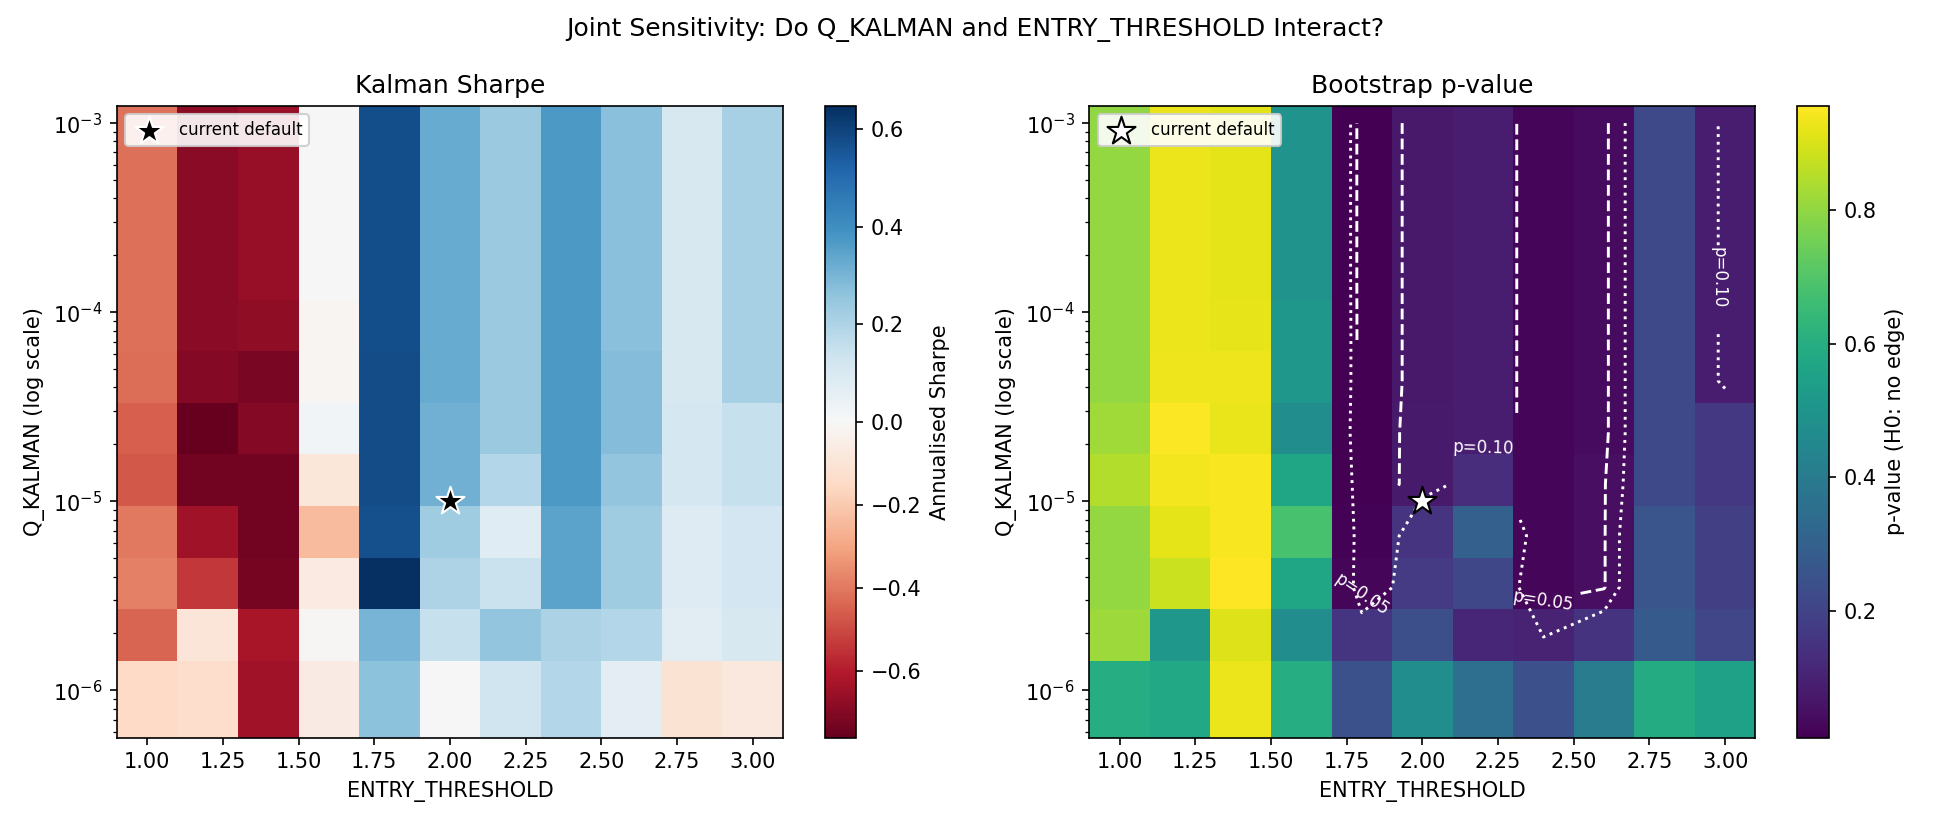
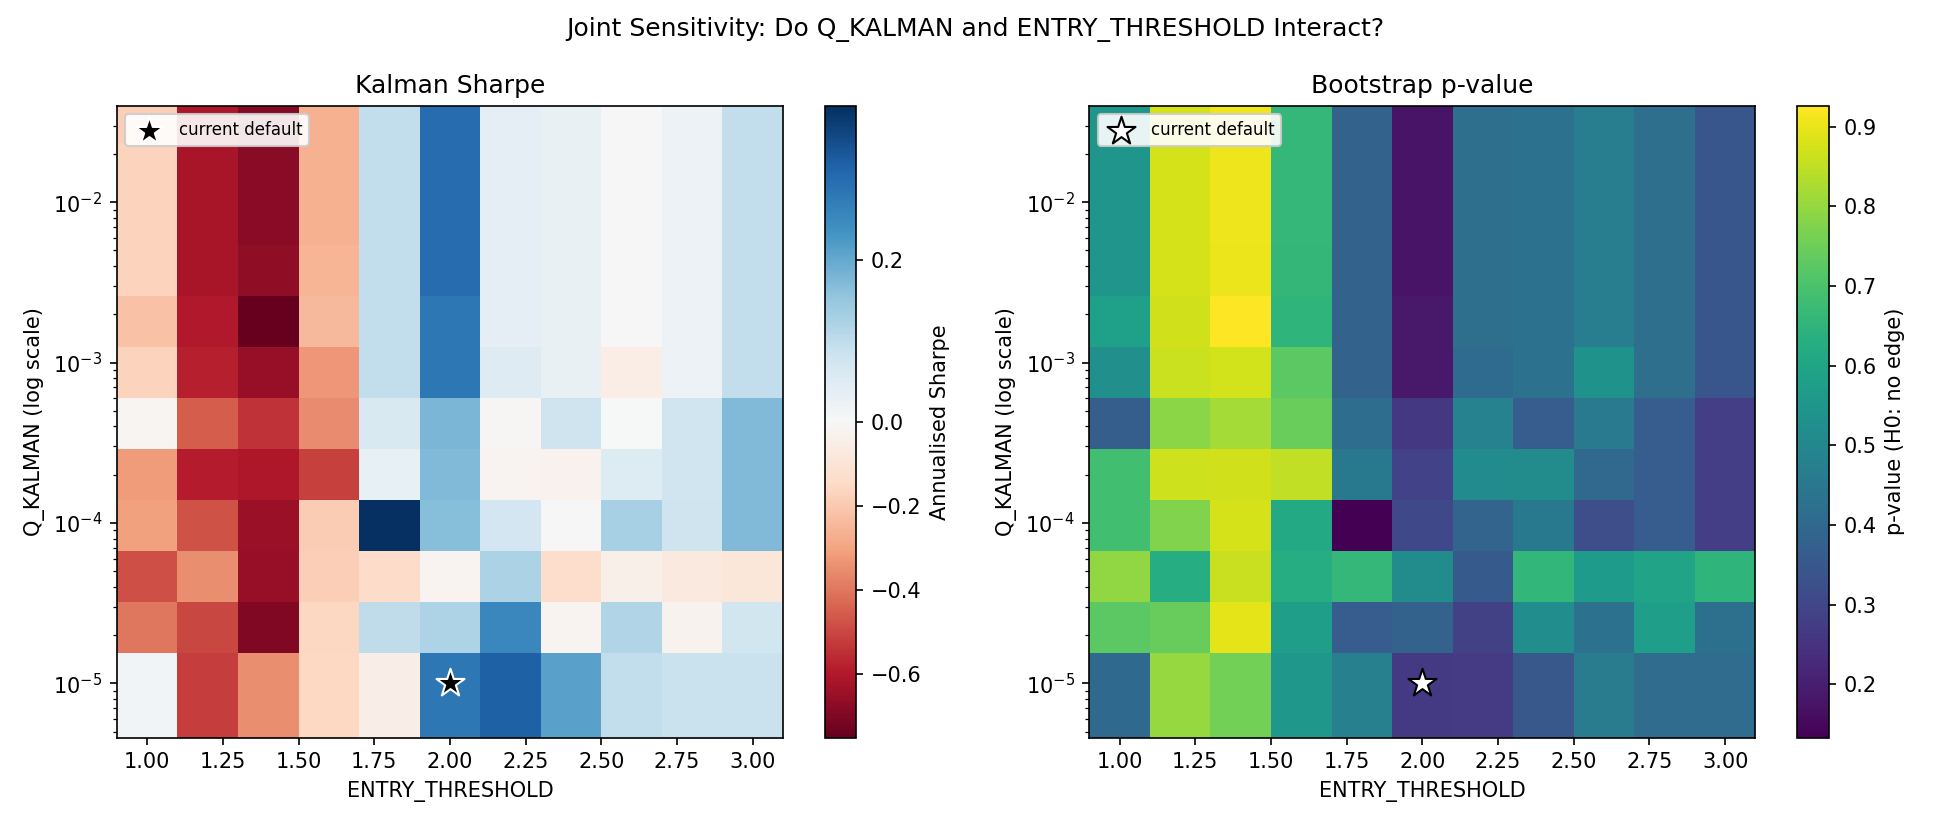
Regenerate sensitivity sweep/heatmap on corrected, recentred pipeline
Reran sensitivity.py's full 1D Q sweep, 1D entry-threshold sweep, and 12x11 joint heatmap against the corrected pipeline (Fixes A-D) and the recentred Q range.

Neither sub-story survives cleanly: Q_KALMAN no longer shows a clean ramp-then-plateau (the middle of the recentred range is noisy before a new plateau above ~8e-4), and ENTRY_THRESHOLD no longer shows a sharp cliff into a consistently-positive, sometimes-significant region above ~1.7 -- no point in the entire swept range now reaches conventional significance. Reframed in CORRECTIONS.md: the old 'mostly robust, one known fragility' story becomes 'no parameter combination tested produces a significant result,' consistent with Fix D's single-point finding rather than contradicting it.

diff --git a/CORRECTIONS.md b/CORRECTIONS.md
@@ -135,3 +135,24 @@ results on the other two pairs, already weak at baseline, got uniformly worse af
 correction. Rolling OLS remains the most unstable across pairs (still swinging from a
 strongly significant +1.36 to a strongly negative -0.98 to -0.19-ish depending on
 pair) -- if anything, more evidence for noise than before.
+
+## Sensitivity sweep, rerun on the corrected pipeline (Q range recentred per above)
+
+The original sensitivity story (Stage 10 / notebook Section 9) doesn't survive either:
+
+- **Q_KALMAN** no longer shows a clean ramp-then-plateau. The middle of the recentred
+  range (~3e-5 to ~6e-4) is noisy, bouncing between slightly negative and modestly
+  positive Sharpe, before settling into a new plateau above ~8e-4 (Sharpe~0.30,
+  p~0.18 -- still not significant). The actual default (1e-5) sits at the noisy low
+  end: Sharpe 0.2821, p=0.2475.
+- **ENTRY_THRESHOLD** no longer shows the sharp cliff at ~1.7 with consistently
+  positive, sometimes-significant results above it. Now: negative-to-flat from 1.0
+  through 1.8, a brief positive patch at 1.9-2.3 (best single point: 1.9, Sharpe
+  0.36, p=0.13 -- still short of even 10% significance), noisy again through 3.0.
+  **No point in the entire swept range reaches conventional significance.**
+
+Honest reframe for the write-up: the old story was "mostly robust (Q) with one known
+fragility (ENTRY_THRESHOLD)." The corrected story is closer to "no combination of
+these two parameters, across the ranges tested, produces a statistically significant
+result" -- consistent with, not contradicted by, Fix D's finding at the single
+default configuration.